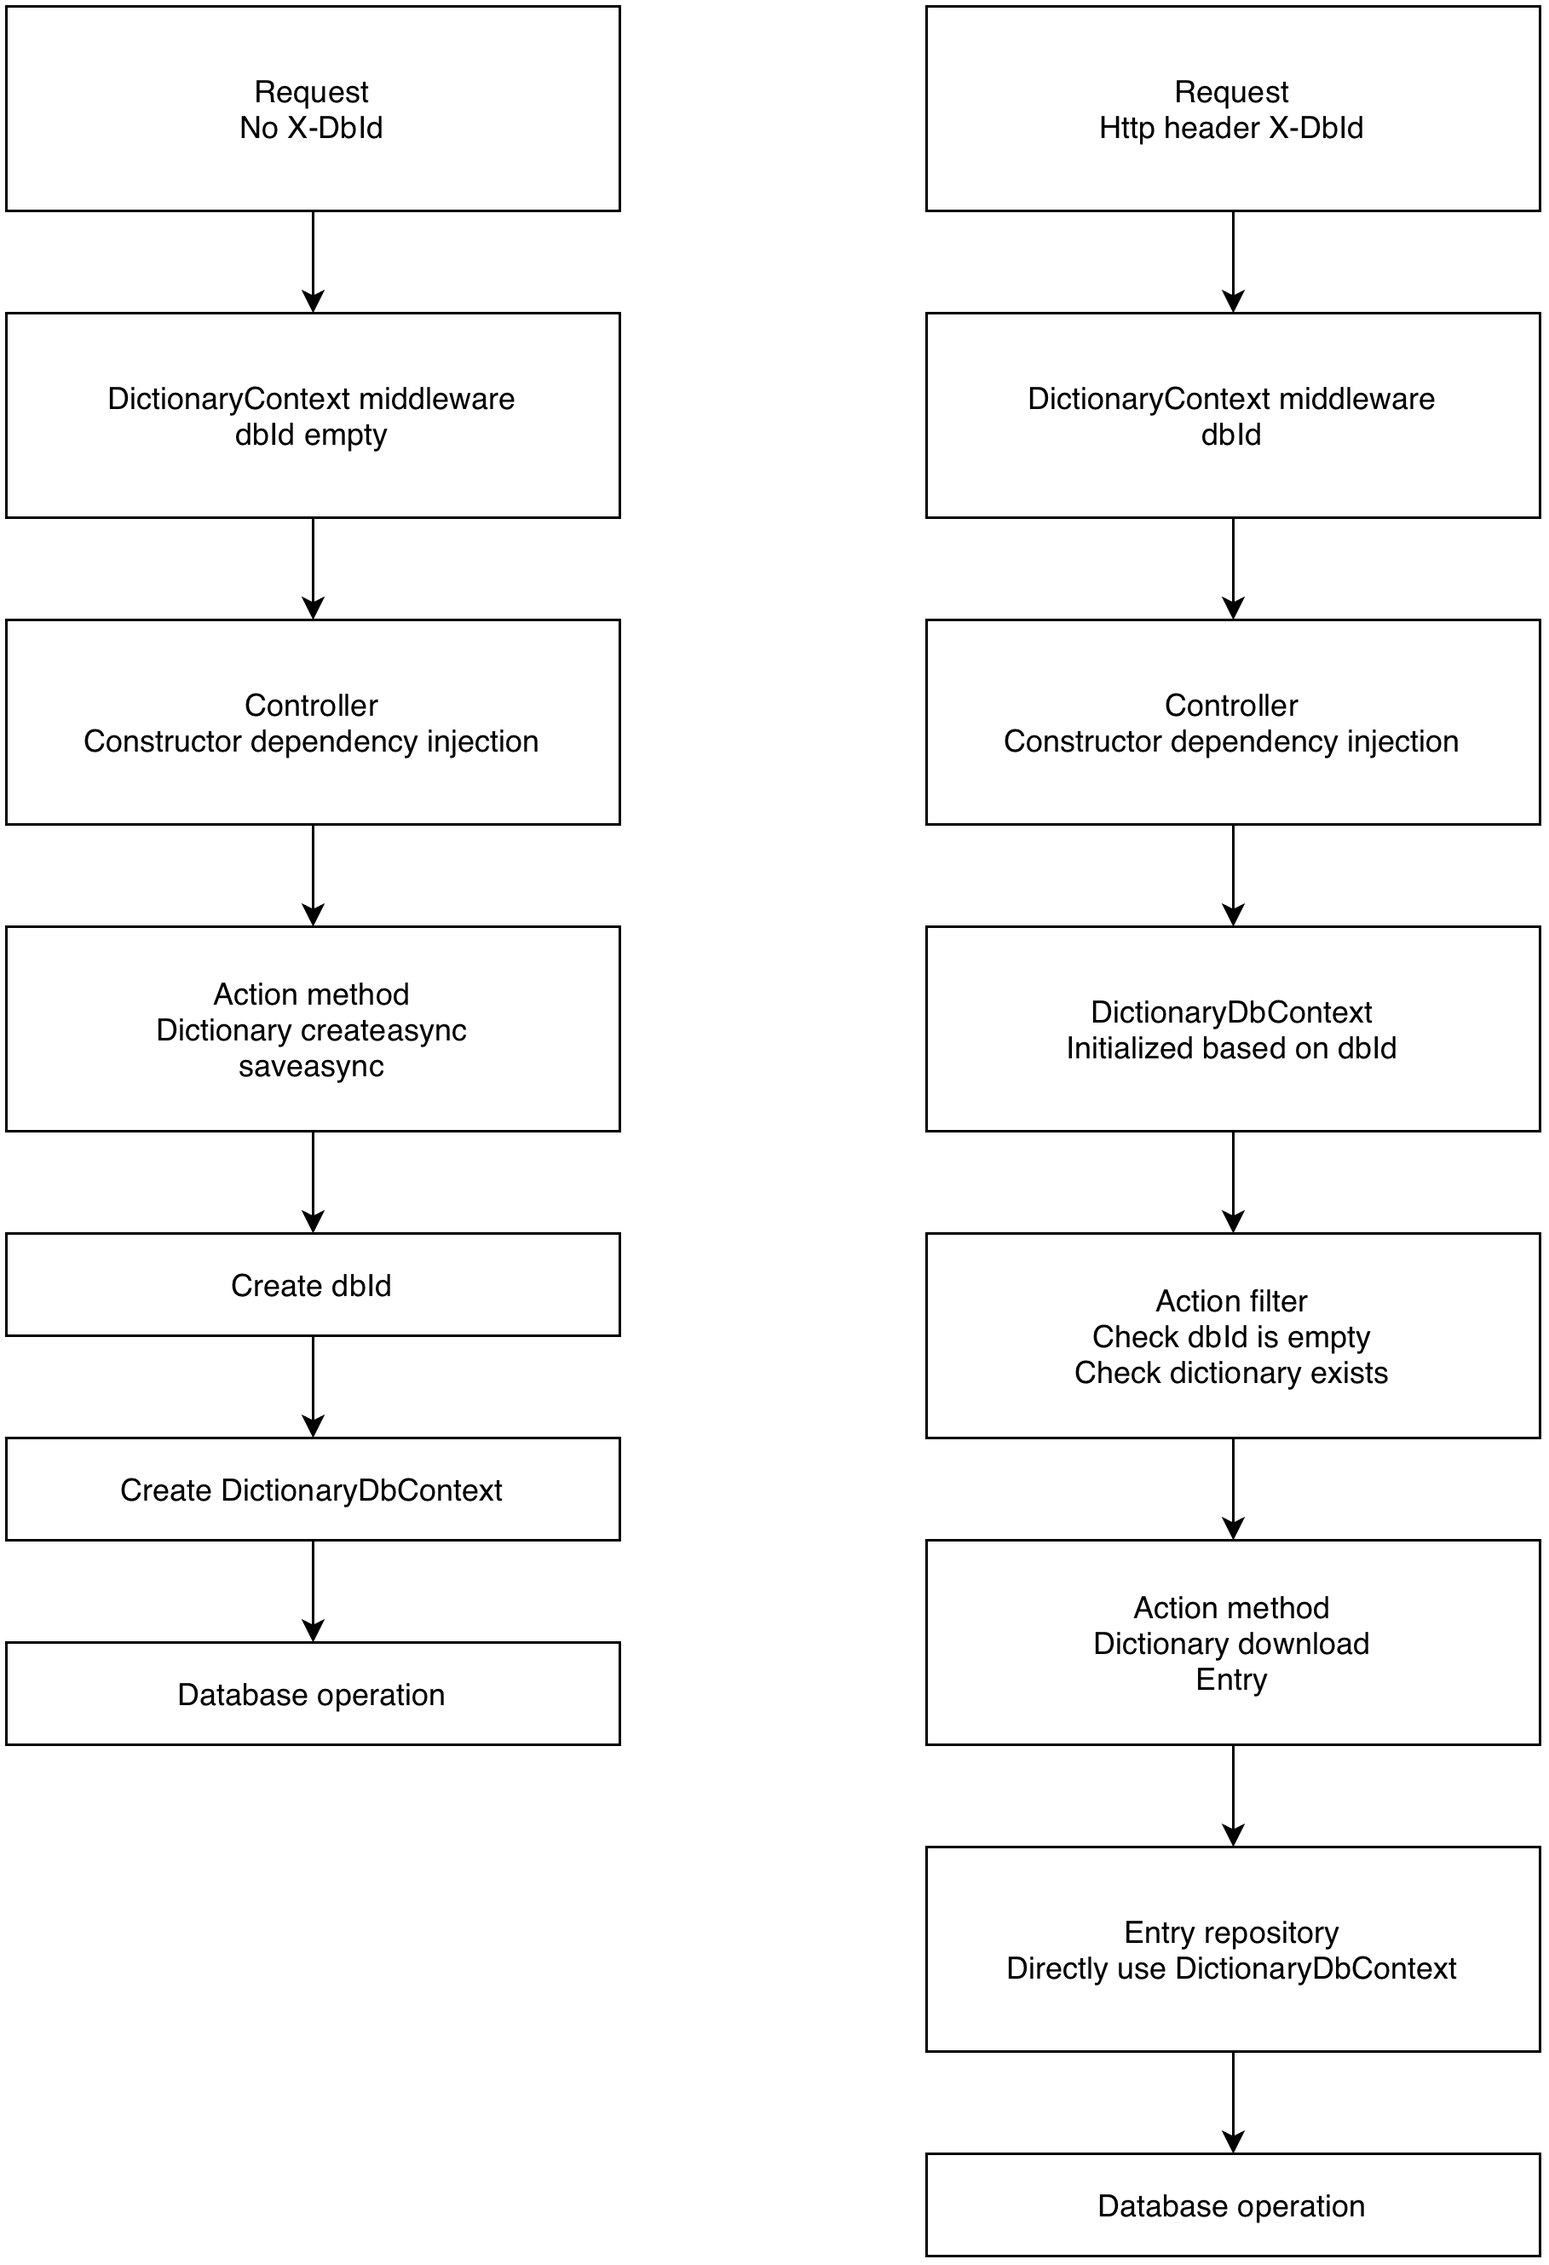
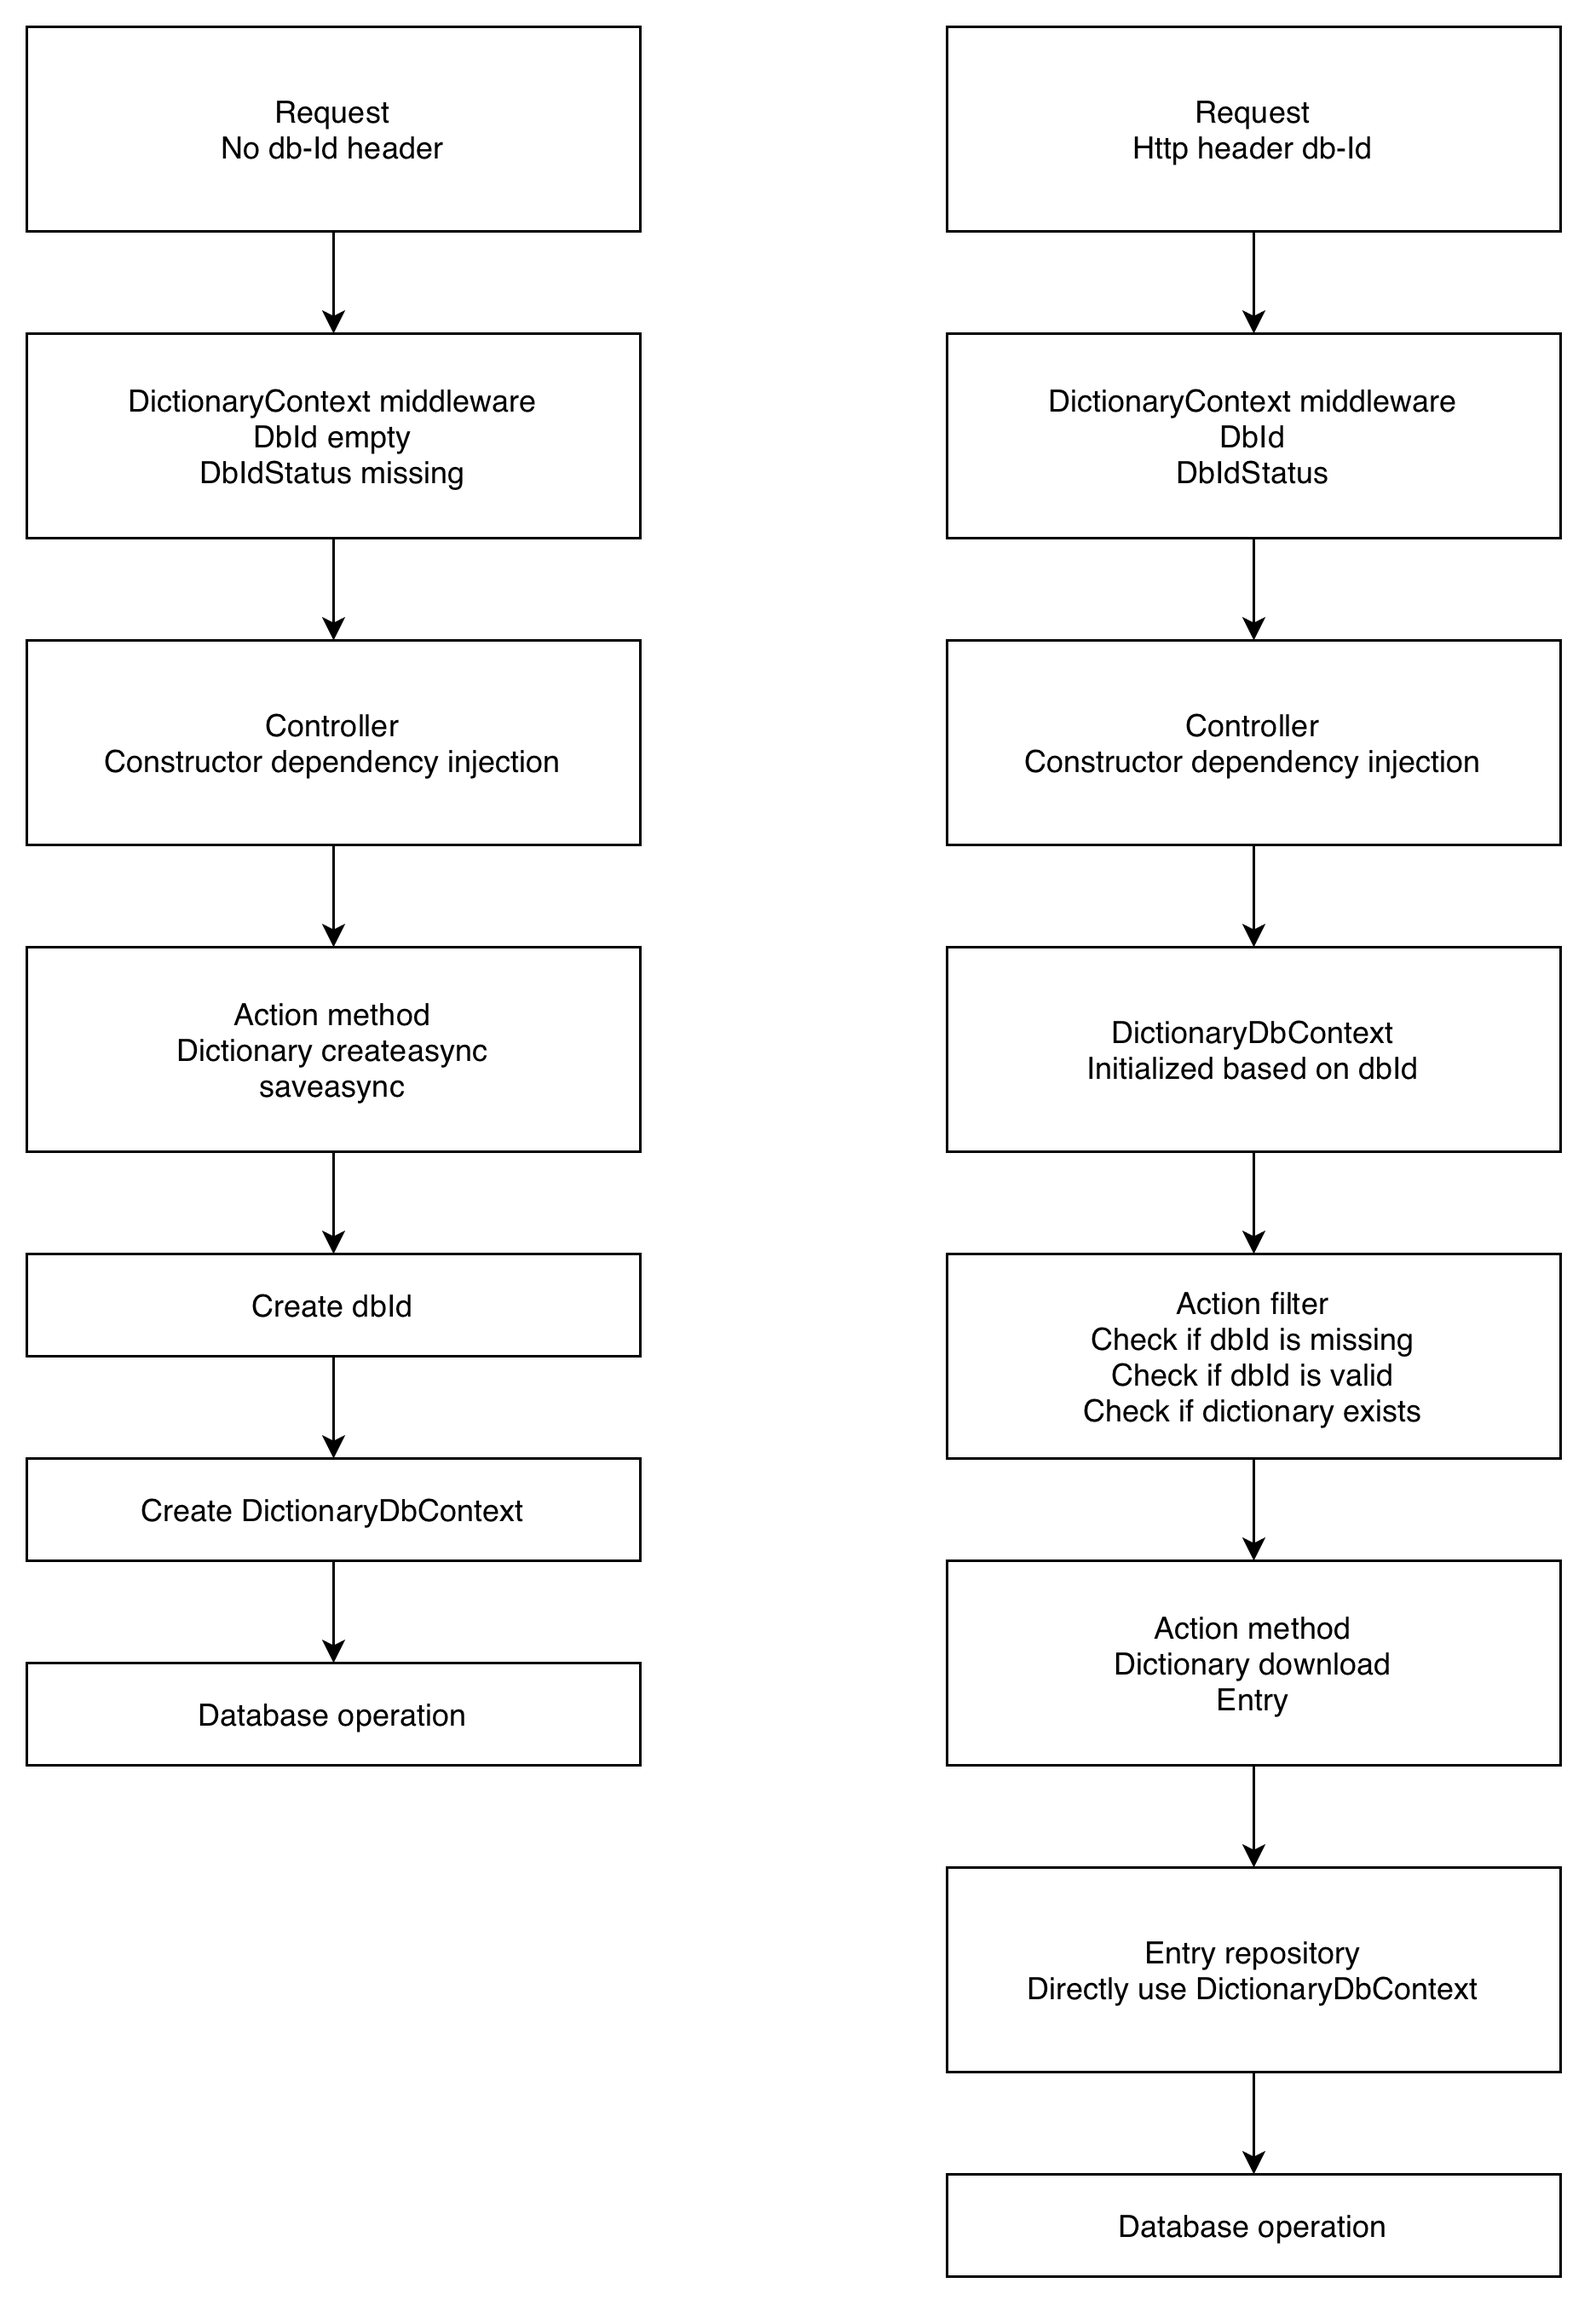
DictionaryContextMiddleware distinguishes empty and invalid dbid #94

diff --git a/DictionaryApi/DictionaryApi/Filters/ValidateDbIdActionFilter.cs b/DictionaryApi/DictionaryApi/Filters/ValidateDbIdActionFilter.cs
@@ -18,9 +18,9 @@ public class ValidateDbIdActionFilter: IActionFilter
     
     public void OnActionExecuting(ActionExecutingContext context)
     {
-        var dbId = _dictionaryContext.DbId;
+        var dbIdStatus = _dictionaryContext.DbIdStatus;
 
-        if (dbId == Guid.Empty)
+        if (dbIdStatus == DbIdStatus.Missing)
         {
             context.Result = new ObjectResult(new ProblemDetails
             {
@@ -30,7 +30,20 @@ public class ValidateDbIdActionFilter: IActionFilter
             });
             return;
         }
+        
+        if (dbIdStatus == DbIdStatus.Invalid)
+        {
+            context.Result = new ObjectResult(new ProblemDetails
+            {
+                Status = StatusCodes.Status400BadRequest,
+                Title = "Dictionary ID invalid",
+                Detail = "The dictionary ID is not in a invalid GUID format. Please check the ID and try again."
+            });
+            return;
+        }
 
+        var dbId = _dictionaryContext.DbId;
+        
         if (_dictionaryDbManager.DictionaryExists(dbId)) return;
         
         context.Result = new ObjectResult(new ProblemDetails

diff --git a/DictionaryApi/DictionaryApi/Middleware/DictionaryContextMiddleware.cs b/DictionaryApi/DictionaryApi/Middleware/DictionaryContextMiddleware.cs
@@ -12,8 +12,13 @@ public class DictionaryContextMiddleware
 
     public async Task InvokeAsync(HttpContext context, DictionaryContext dictionaryContext)
     {
-        if (context.Request.Headers.TryGetValue(DbIdHeaderKey, out var value) &&
-            Guid.TryParse(value, out var dbId)) dictionaryContext.DbId = dbId;
+        if (!context.Request.Headers.TryGetValue(DbIdHeaderKey, out var value)) dictionaryContext.DbIdStatus = DbIdStatus.Missing;
+        else if (!Guid.TryParse(value, out var dbId)) dictionaryContext.DbIdStatus = DbIdStatus.Invalid;
+        else
+        {
+            dictionaryContext.DbId = dbId;
+            dictionaryContext.DbIdStatus = DbIdStatus.Valid;
+        }
         
         await _next(context);
     }

diff --git a/DictionaryApi/DictionaryApi/Middleware/DictionaryContext.cs b/DictionaryApi/DictionaryApi/Middleware/DictionaryContext.cs
@@ -3,4 +3,5 @@ namespace DictionaryApi.Middleware;
 public class DictionaryContext: IDictionaryContext
 {
     public Guid DbId { get; set; }
+    public DbIdStatus DbIdStatus { get; set; }
 }

diff --git a/DictionaryApi/DictionaryApi/Middleware/IDictionaryContext.cs b/DictionaryApi/DictionaryApi/Middleware/IDictionaryContext.cs
@@ -3,4 +3,5 @@ namespace DictionaryApi.Middleware;
 public interface IDictionaryContext
 {
     Guid DbId { get; }
+    DbIdStatus DbIdStatus { get; }
 }

diff --git a/DictionaryApi/DictionaryApi/Middleware/DbIdStatus.cs b/DictionaryApi/DictionaryApi/Middleware/DbIdStatus.cs
@@ -1,0 +1,8 @@
+namespace DictionaryApi.Middleware;
+
+public enum DbIdStatus
+{
+    Missing,
+    Invalid,
+    Valid
+}
